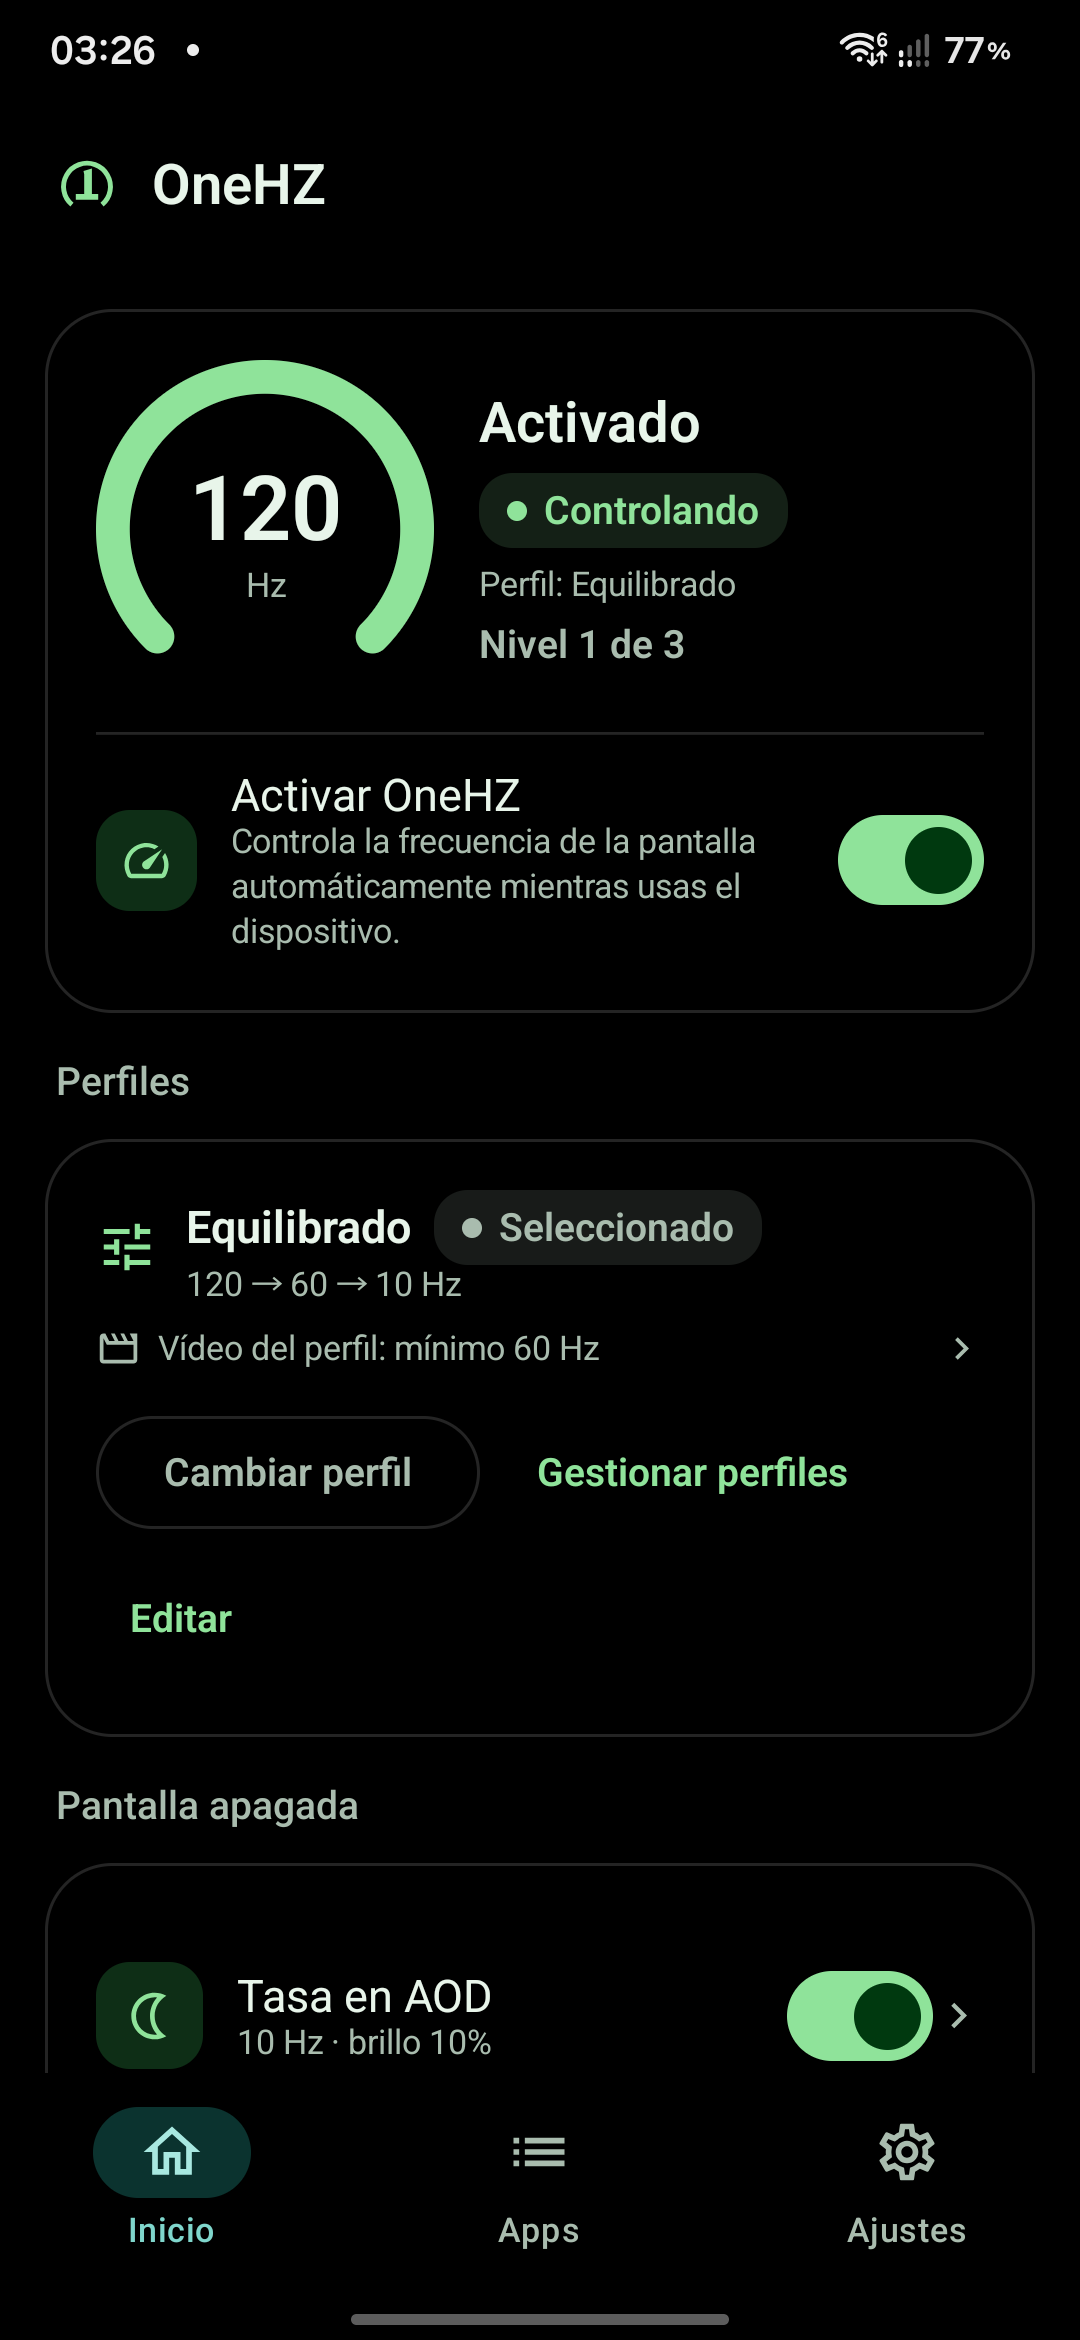
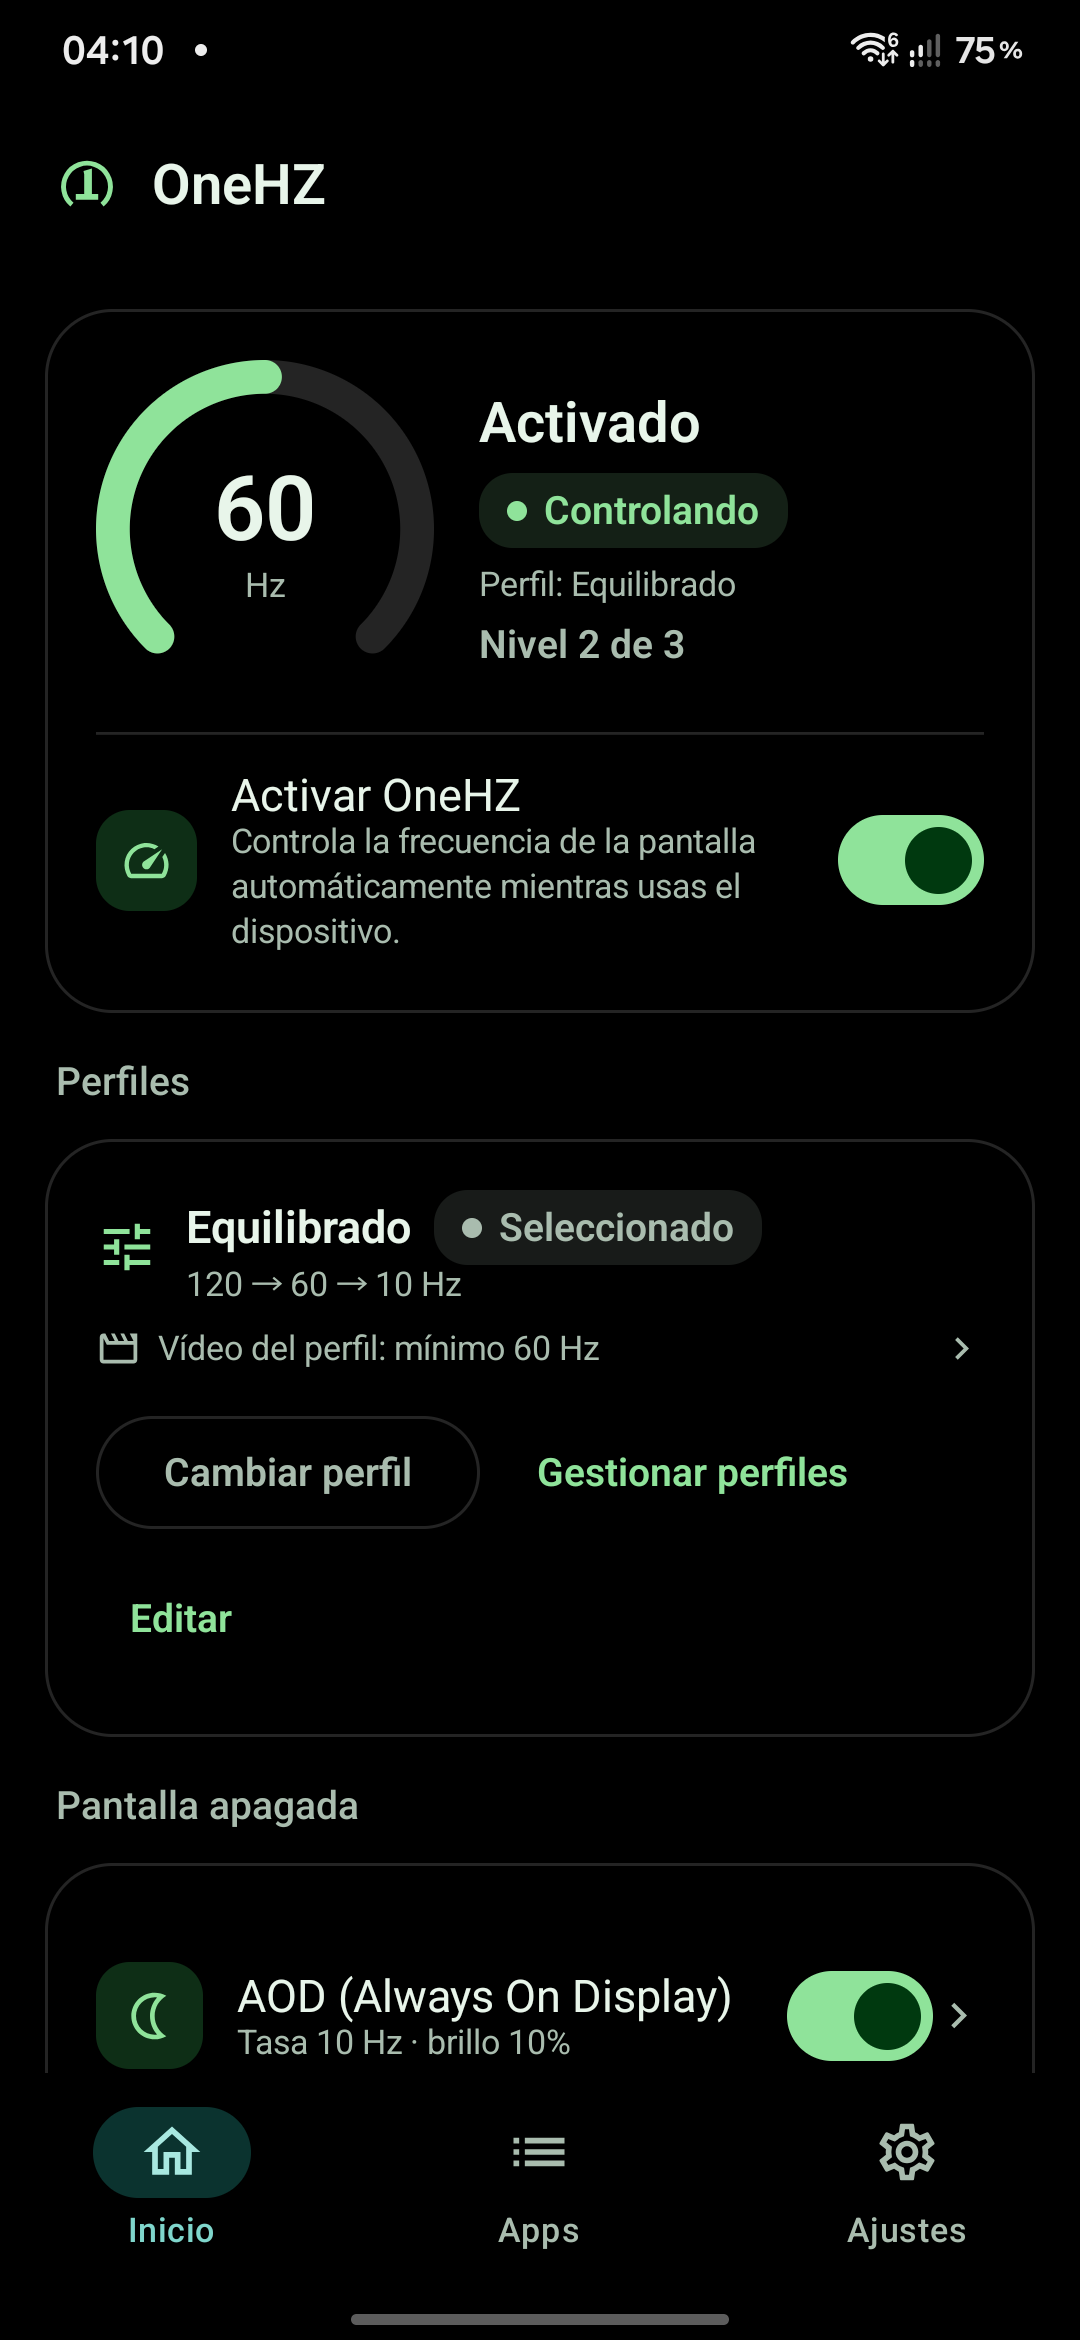
fix(ux): show the last assignment and keep AOD context on Home

diff --git a/app/src/main/java/io/github/nevesz/onehz/ui/home/HomeScreen.kt b/app/src/main/java/io/github/nevesz/onehz/ui/home/HomeScreen.kt
@@ -159,7 +159,6 @@ fun HomeScreen(
     val activeLayer by Diagnostics.activeLayer.collectAsState()
     val activeProfileId by Diagnostics.activeProfileId.collectAsState()
     val activeAppPackage by Diagnostics.activeAppPackage.collectAsState()
-    val lastAssignedAppPackage by Diagnostics.lastAssignedAppPackage.collectAsState()
 
     val lifecycleOwner = LocalLifecycleOwner.current
     var refresh by remember { mutableIntStateOf(0) }
@@ -205,12 +204,13 @@ fun HomeScreen(
     val activeAppLabel = remember(activeAppPackage) {
         activeAppPackage?.let { runCatching { AppCatalog.label(context, it) }.getOrDefault(it) }
     }
-    val lastAssignedAppLabel = remember(lastAssignedAppPackage) {
-        lastAssignedAppPackage?.let { runCatching { AppCatalog.label(context, it) }.getOrDefault(it) }
+    val lastAssignment = state.profileState.assignments.lastOrNull()
+    val lastAssignedAppLabel = remember(lastAssignment?.packageName) {
+        lastAssignment?.packageName?.let {
+            runCatching { AppCatalog.label(context, it) }.getOrDefault(it)
+        }
     }
-    val lastAssignedProfile = lastAssignedAppPackage?.let { pkg ->
-        state.profileState.assignment(pkg)?.let { state.profileState.profile(it.profileId) }
-    }
+    val lastAssignedProfile = lastAssignment?.let { state.profileState.profile(it.profileId) }
     val appliedProfile = activeProfileId?.let { state.profileState.profile(it) }
     val videoPlaying = videoSource == VideoSignals.Source.PLAYING
     val sourceText = when {
@@ -758,7 +758,12 @@ private fun HeroCard(
                         color = MaterialTheme.colorScheme.onSurfaceVariant
                     )
                 }
-                if (state.enabled && activeStepCount > 0) {
+                if (
+                    state.enabled &&
+                    shizuku == ShizukuState.READY &&
+                    idleReason == null &&
+                    activeStepCount > 0
+                ) {
                     Spacer(Modifier.height(6.dp))
                     Text(
                         text = stringResource(R.string.step_of, activeStep, activeStepCount),

diff --git a/app/src/main/java/io/github/nevesz/onehz/engine/OneHzEngine.kt b/app/src/main/java/io/github/nevesz/onehz/engine/OneHzEngine.kt
@@ -503,10 +503,6 @@ object OneHzEngine {
                 Diagnostics.activeLayer.value = policy.layer
                 Diagnostics.activeProfileId.value = policy.profileId
                 Diagnostics.activeAppPackage.value = policy.appPackage
-                if (policy.appPackage != null && policy.profileId != null) {
-                    Diagnostics.lastAssignedAppPackage.value = policy.appPackage
-                    Diagnostics.lastAssignedProfileId.value = policy.profileId
-                }
                 Diagnostics.activeStep.value = index + 1
                 Diagnostics.activeStepCount.value = policy.profile.steps.size
                 Diagnostics.activeTierKey.value = when {

diff --git a/app/src/main/java/io/github/nevesz/onehz/diagnostic/Diagnostics.kt b/app/src/main/java/io/github/nevesz/onehz/diagnostic/Diagnostics.kt
@@ -51,8 +51,6 @@ object Diagnostics {
     val activeLayer = MutableStateFlow<String?>(null)
     val activeProfileId = MutableStateFlow<String?>(null)
     val activeAppPackage = MutableStateFlow<String?>(null)
-    val lastAssignedAppPackage = MutableStateFlow<String?>(null)
-    val lastAssignedProfileId = MutableStateFlow<String?>(null)
     val activeStep = MutableStateFlow(0)
     val activeStepCount = MutableStateFlow(0)
     val idleReason = MutableStateFlow<io.github.nevesz.onehz.engine.IdleReason?>(null)

diff --git a/app/src/main/java/io/github/nevesz/onehz/engine/ScreenStateReceiver.kt b/app/src/main/java/io/github/nevesz/onehz/engine/ScreenStateReceiver.kt
@@ -22,6 +22,7 @@ class ScreenStateReceiver : BroadcastReceiver() {
                 DozeController.onScreenOn()
                 AodBrightnessController.onScreenOn()
                 OneHzEngine.setScreenOff(false)
+                OneHzEngine.refreshForegroundPackage()
             }
             PowerManager.ACTION_DEVICE_IDLE_MODE_CHANGED -> {
                 DozeController.onIdleChanged()
